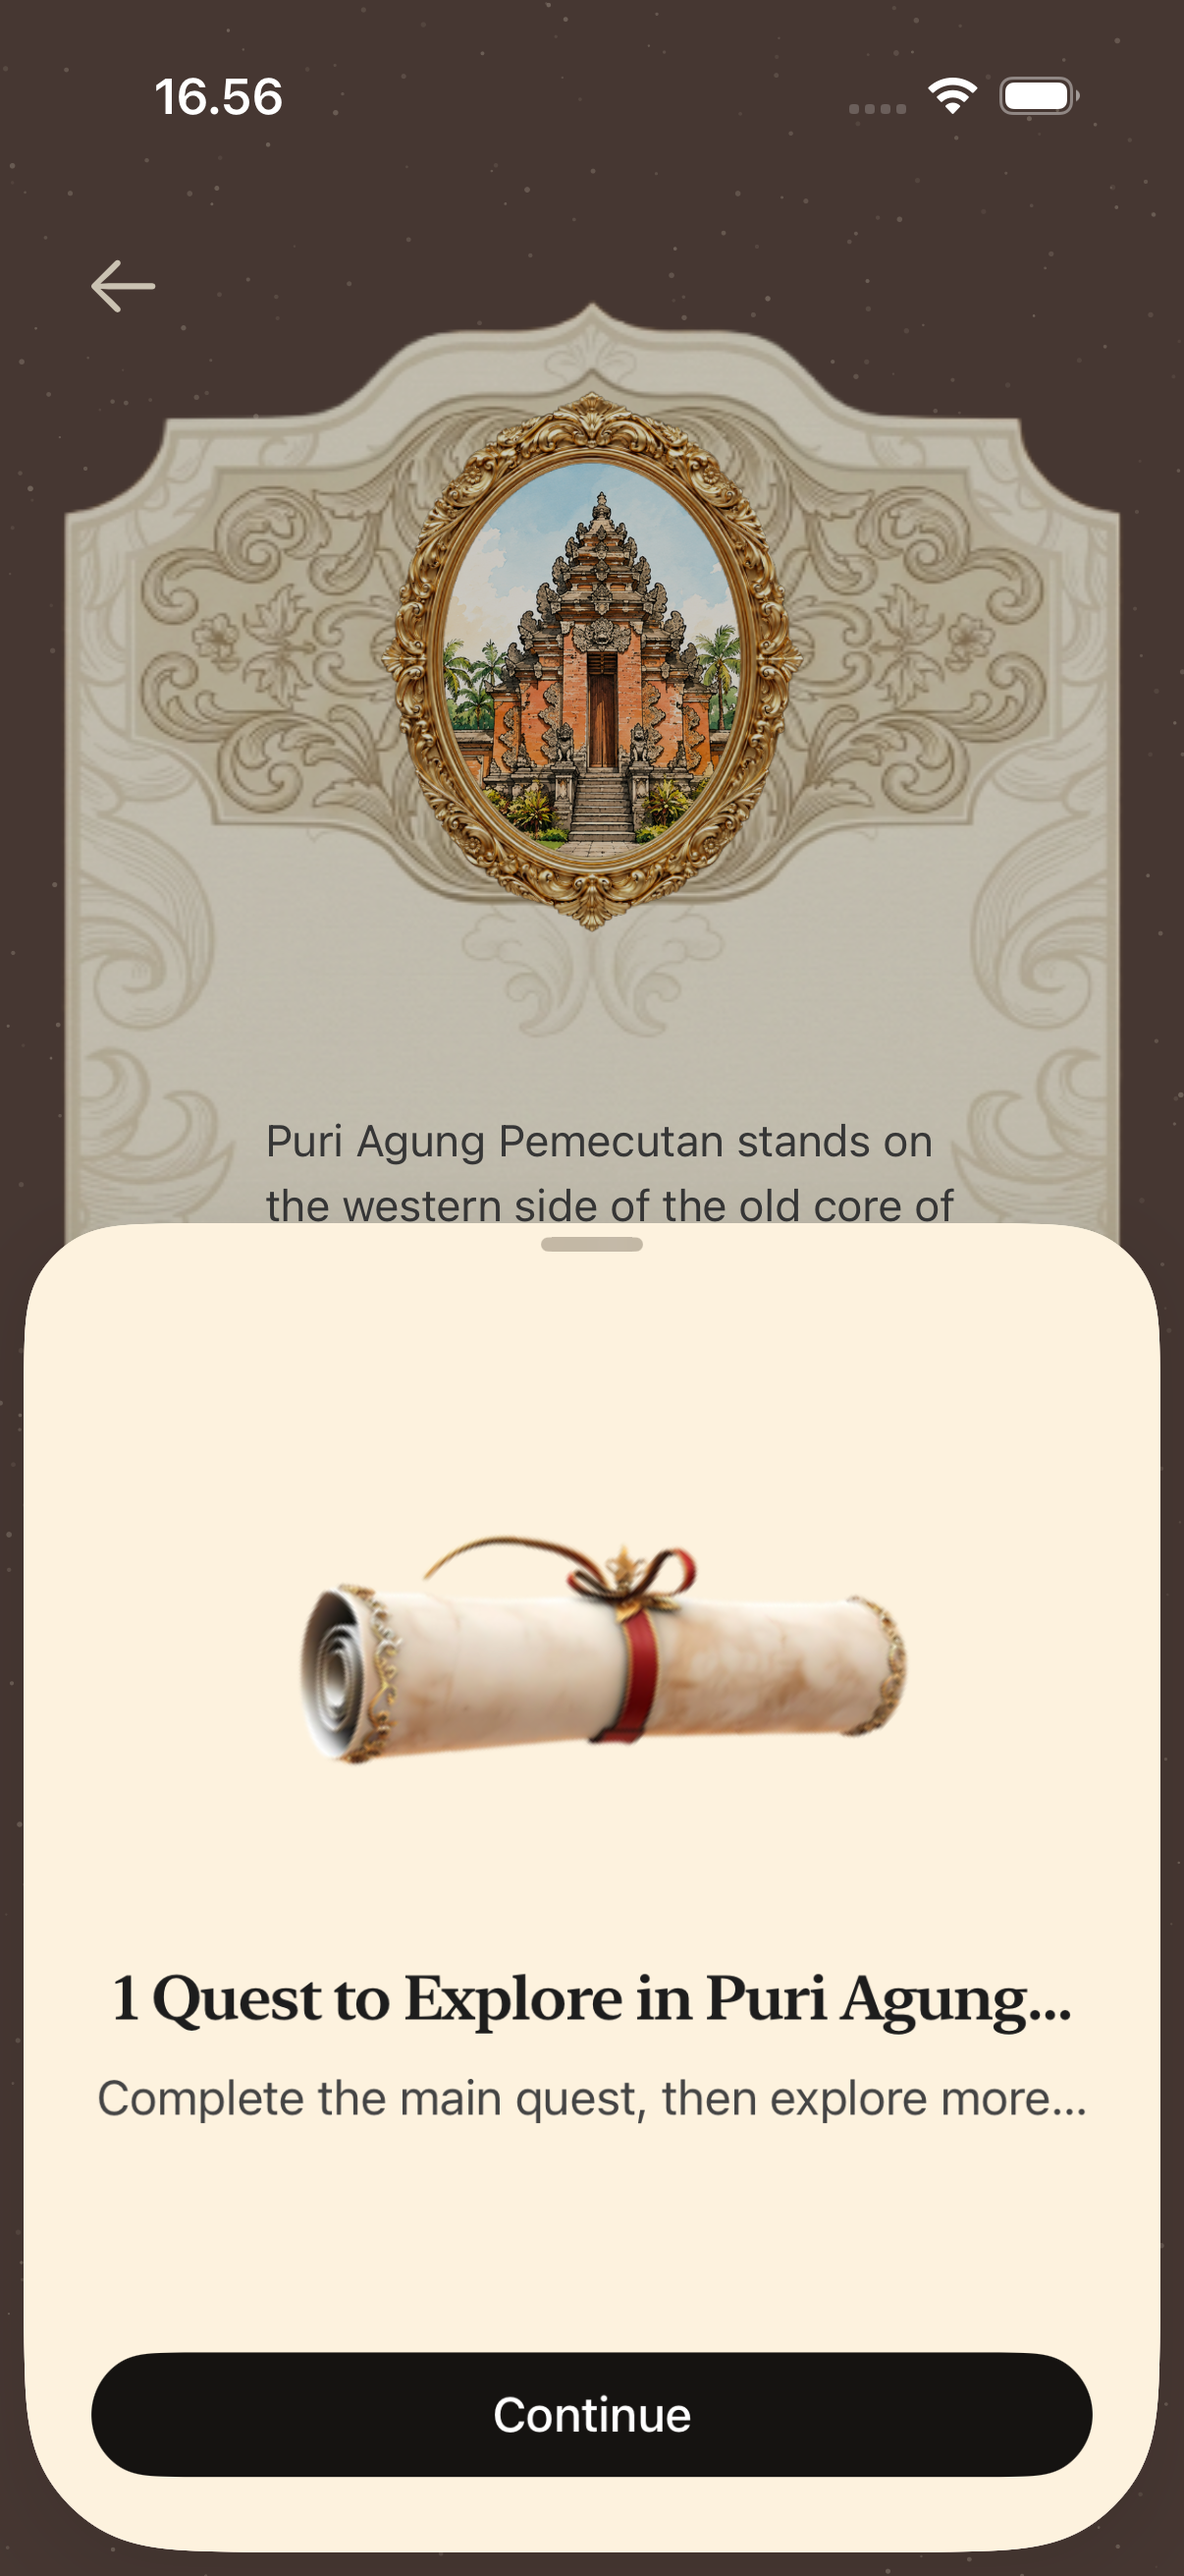
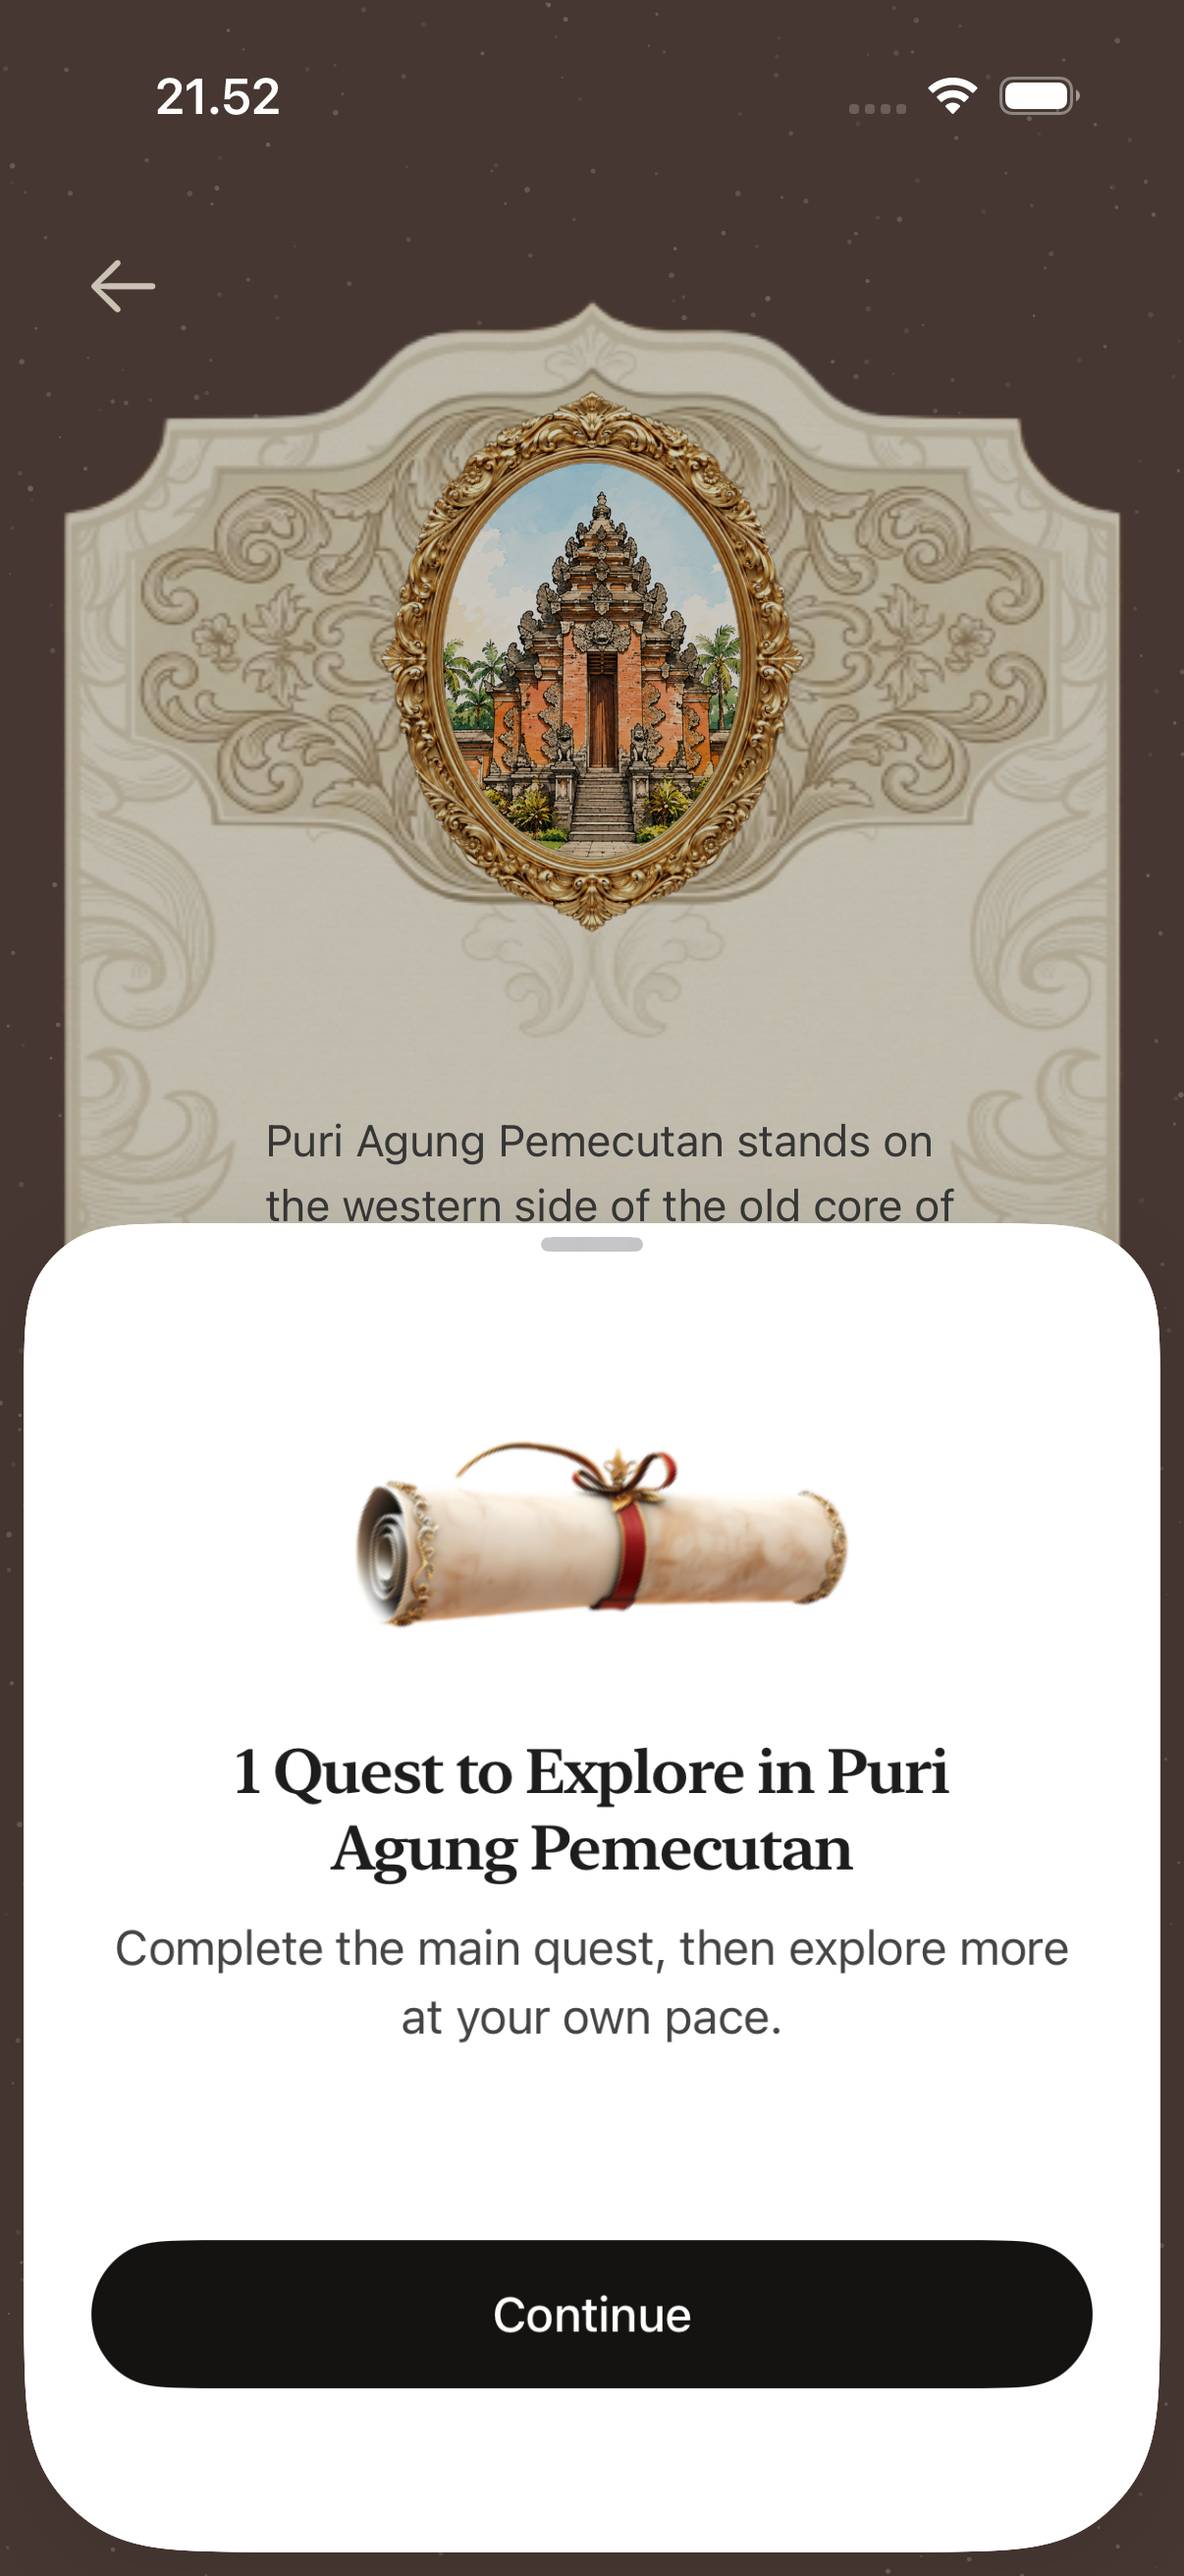
Make the quest availability sheet half-screen with a white ground
Owner instruction of 2026-08-23, both halves deviations from 921:3870
recorded in QuestAvailabilityScreen's doc comment: the sheet stands at
.medium (the frame's own 540 of 874 is nearer two thirds) and its ground
is white — the frame's own backgrounds/primary---elevated fill — where
the first cut used this direction's cream. .large stays one drag away so
the largest type sizes can spread the column. The glyph and headline
overlap scale down to the shorter sheet.

Verified on iPhone 17 / iOS 26.5; docs/screenshots/m16-quest-card-info-sheet.png
replaced. The temporary capture UI test that produced it is deleted with
this commit.

diff --git a/challange-5/challange-5/Features/QuestRun/QuestAvailabilityScreen.swift b/challange-5/challange-5/Features/QuestRun/QuestAvailabilityScreen.swift
@@ -15,6 +15,13 @@ import UIStringsKit
 /// **The count is real, not the frame's sample "3".** `title` reads the checkpoint's own filtered
 /// task count (`FR-TASK-06`), so it says "1 Quest" for every place the shipped content carries
 /// today rather than a number nothing backs (`AD-4`).
+///
+/// **Two deviations from the frame, both the owner's instruction of 2026-08-23.** The sheet stands
+/// at half screen (`.medium` first detent, `921:3870`'s own 540 of 874 is nearer two thirds) and
+/// its ground is **white**, not this direction's cream — `921:3870`'s own fill is
+/// `backgrounds/primary---elevated = white`. The palette has no white token, so the view takes
+/// `Color.white` directly; the inks stay palette tokens, and both read *better* on white than on
+/// `paperSheet` (white is strictly brighter than #FDF2DE, so every measured pair only widens).
 struct QuestAvailabilityScreen: View {
     @Environment(\.hisploraPalette) private var palette
 
@@ -22,18 +29,22 @@ struct QuestAvailabilityScreen: View {
     let title: String
     let onContinue: () -> Void
 
+    /// The scroll at the size half a screen holds. `921:3869` draws it 194 wide inside a 540-point
+    /// sheet; scaled to the `.medium` detent the same fraction of the sheet is 157.
+    private static let glyphWidth: CGFloat = 157
+
     /// `921:3869` hangs its headline 56 points up into the tilted scroll's bounding box — the
     /// box's lower corners are empty paper-shadow space, and the roll end is what the words sit
     /// under. Without this pull-up a centred column reads a full corner of air below the picture.
-    private static let titleOverlap: CGFloat = 56
+    /// Scaled with the glyph to the half-screen sheet.
+    private static let titleOverlap: CGFloat = 44
 
     var body: some View {
-        VStack(spacing: KultaraMetrics.xl) {
-            Spacer(minLength: KultaraMetrics.xxl)
-
+        VStack(spacing: 0) {
             HisploraAvailabilityGlyph(
-                width: 194,
+                width: Self.glyphWidth,
                 tiltDegrees: HisploraScrollArt.mapHintTiltDegrees)
+                .padding(.top, KultaraMetrics.sm)
                 .padding(.bottom, -Self.titleOverlap)
 
             VStack(spacing: KultaraMetrics.md) {
@@ -55,14 +66,14 @@ struct QuestAvailabilityScreen: View {
             }
             .padding(.horizontal, KultaraMetrics.xl)
 
-            Spacer(minLength: KultaraMetrics.xxl)
+            Spacer(minLength: KultaraMetrics.lg)
 
             Button(UIStrings.string(.questAvailabilityContinue, language), action: onContinue)
                 .buttonStyle(.hisploraPillOnPaper)
                 .padding(.horizontal, KultaraMetrics.xl)
                 .padding(.bottom, KultaraMetrics.xl)
         }
-        .frame(maxWidth: .infinity)
-        .background(palette.paperSheet.color)
+        .frame(maxWidth: .infinity, maxHeight: .infinity)
+        .background(Color.white)
     }
 }

diff --git a/challange-5/challange-5/Features/QuestRun/QuestRunView.swift b/challange-5/challange-5/Features/QuestRun/QuestRunView.swift
@@ -119,11 +119,12 @@ struct QuestRunView: View {
             .sheet(isPresented: Binding(get: { model.isPresentingQuestAvailability },
                                         set: { if !$0 { model.advanceFromQuestAvailability() } })) {
                 questAvailability
-                    // `.large`, not `.medium`: at medium the fixed-height column cannot hold the
-                    // frame's two-line headline beside the tilted scroll, and SwiftUI answers the
-                    // squeeze by truncating the place name mid-word — worse than any detent
-                    // argument. `921:3869` draws the sheet with air around all three parts.
-                    .presentationDetents([.large])
+                    // Half screen first (`.medium`, owner instruction 2026-08-23 — the frame's own
+                    // 540 of 874 is nearer two thirds), with `.large` one drag away so the largest
+                    // type sizes can still spread the column instead of clipping under the pill.
+                    // The screen's own layout is built compact enough for `.medium` at default
+                    // sizes — see `QuestAvailabilityScreen`.
+                    .presentationDetents([.medium, .large])
                     .presentationDragIndicator(.visible)
             }
             .task(id: model.stage) {
